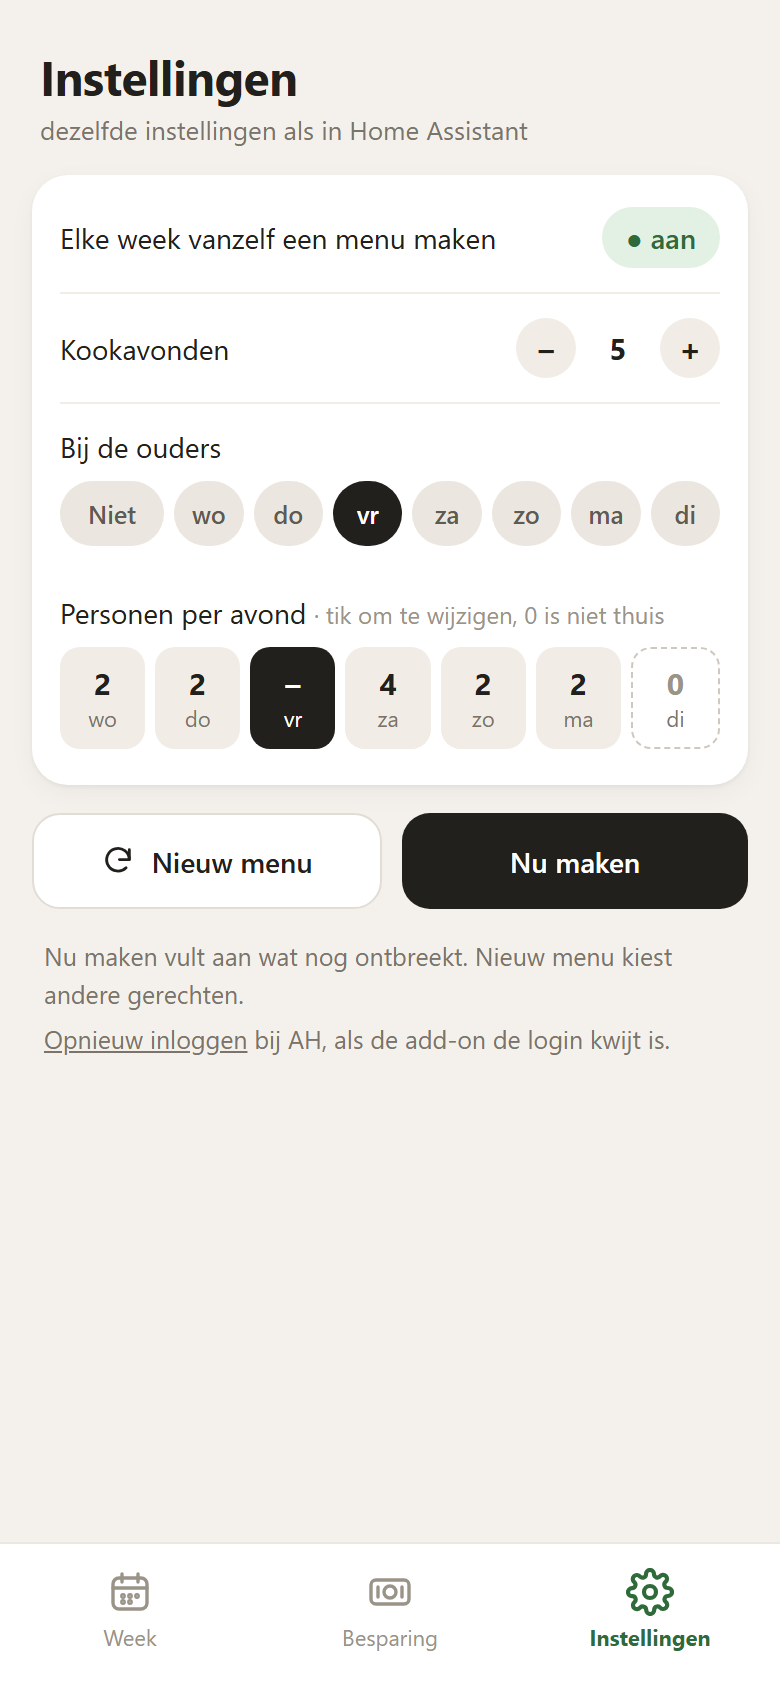
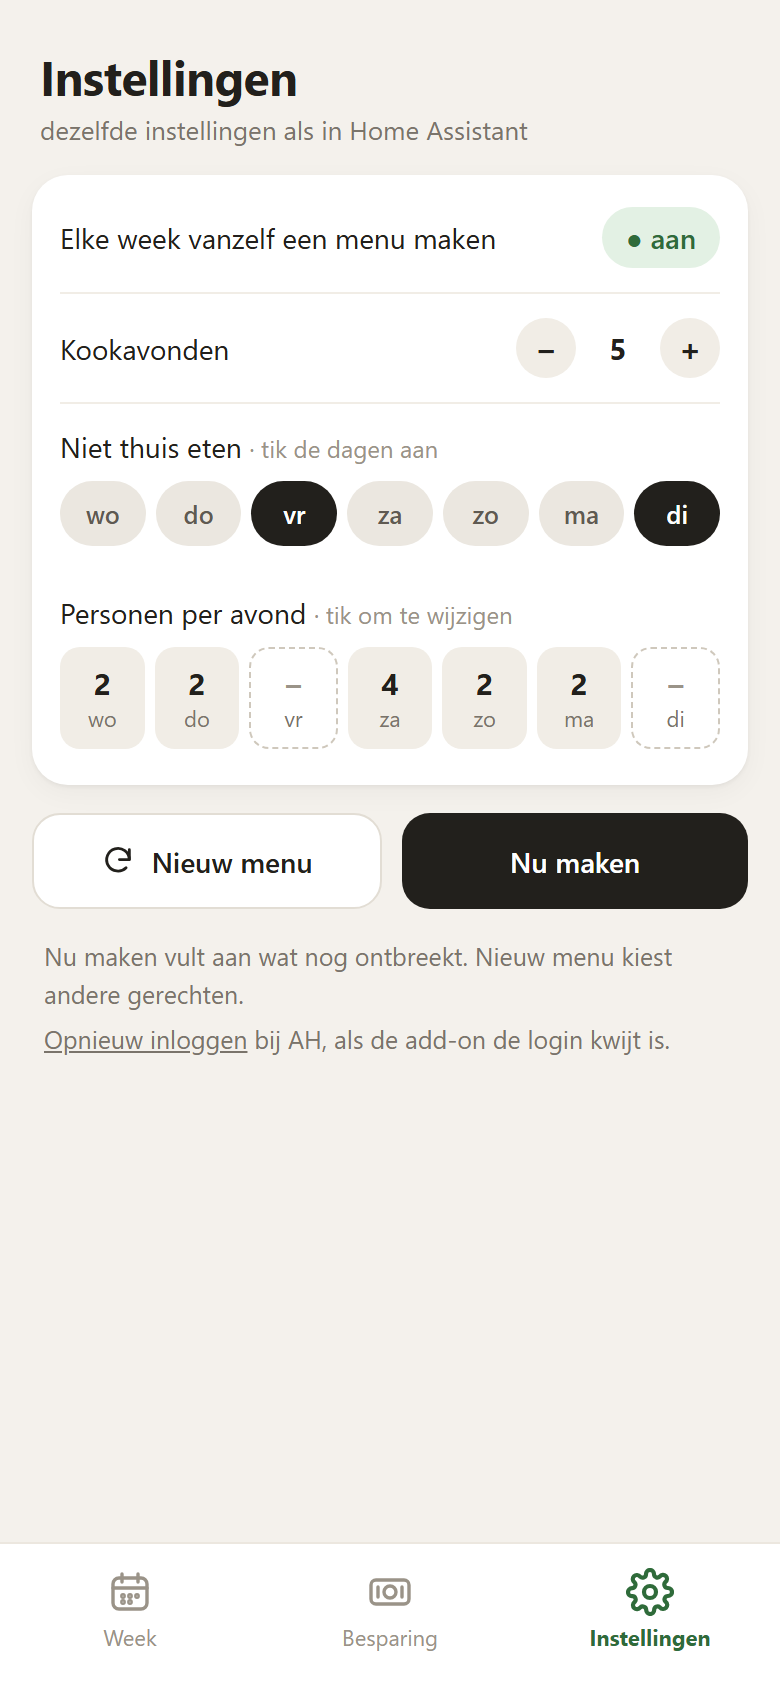
feat: Niet thuis eten als chips in Instellingen, versie 0.3.0, README en screenshots

diff --git a/weekmenu/app/static/app.js b/weekmenu/app/static/app.js
@@ -14,7 +14,6 @@ const DAGEN_KORT = { maandag: "ma", dinsdag: "di", woensdag: "wo", donderdag: "d
 const WEEK_ORDER = ["woensdag", "donderdag", "vrijdag", "zaterdag", "zondag", "maandag", "dinsdag"];
 const MAANDEN = ["januari", "februari", "maart", "april", "mei", "juni", "juli", "augustus",
   "september", "oktober", "november", "december"];
-const GEEN_OUDERAVOND = "Niet deze week";
 const BUSY_TEXT = "Er loopt al een ronde";
 
 const state = { status: null, week: null, weekParam: null, savings: null, settings: null,
@@ -106,7 +105,6 @@ function plural(n, one, many) { return `${n} ${n === 1 ? one : many}`; }
 
 const ICON = {
   plate: '<svg class="fallback" viewBox="0 0 24 24" aria-hidden="true"><circle cx="12" cy="12" r="6.5"/><path d="M3 3.5v5a2 2 0 0 0 2 2v10M5 3.5v4M7 3.5v5a2 2 0 0 1-2 2M21 3.5c-1.7.6-2.5 2.6-2.5 5.5v3.5H21v8"/></svg>',
-  home: '<svg viewBox="0 0 24 24" aria-hidden="true"><path d="M3.5 11 12 4l8.5 7"/><path d="M5.5 9.5V20h13V9.5"/><path d="M10 20v-5h4v5"/></svg>',
   moon: '<svg viewBox="0 0 24 24" aria-hidden="true"><path d="M20 14.5A8 8 0 0 1 9.5 4 8 8 0 1 0 20 14.5z"/></svg>',
   back: '<svg viewBox="0 0 24 24" aria-hidden="true"><path d="M19 12H5M11 6l-6 6 6 6"/></svg>',
   people: '<svg viewBox="0 0 24 24" aria-hidden="true"><circle cx="9" cy="8" r="3.2"/><path d="M3 19.5c.6-3.3 3-5 6-5s5.4 1.7 6 5"/><circle cx="17" cy="9" r="2.5"/><path d="M16 14.6c2.6-.2 4.5 1.4 5 4.4"/></svg>',
@@ -292,10 +290,6 @@ function dayCard(d) {
   const dt = parseDate(d.date);
   const weekend = dt.getDay() === 6 || dt.getDay() === 0;
   const tonight = d.date === todayIso();
-  if (d.ouders) {
-    return `<div class="card skip"><div class="ic">${ICON.home}</div>
-      <div><b>${esc(cap(d.dag))}</b> · bij de ouders</div></div>`;
-  }
   if (d.niet_thuis) {
     return `<div class="card skip"><div class="ic">${ICON.moon}</div>
       <div><b>${esc(cap(d.dag))}</b> · niet thuis</div></div>`;
@@ -356,7 +350,7 @@ function weekScreen() {
   }
   if (!w.days.length && w.geen_avonden) {
     html += `<div class="card empty"><b>Alle avonden niet thuis</b>
-      Er wordt geen menu gemaakt. Zet bij Instellingen een avond weer op 1 of meer personen om een menu te krijgen.</div>`;
+      Er wordt geen menu gemaakt. Tik bij Instellingen een dag weer uit bij Niet thuis eten om een menu te krijgen.</div>`;
   } else if (!w.days.length && w.enabled === false) {
     html += `<div class="card empty"><b>Het weekmenu staat uit</b>
       Er wordt nu geen menu gemaakt. Zet het aan bij Instellingen, of tik op Nu maken.</div>
@@ -471,13 +465,11 @@ function savingsScreen() {
 
 function settingsScreen() {
   const s = state.settings;
-  const opts = s.ouders_options || [GEEN_OUDERAVOND].concat(WEEK_ORDER);
-  const chips = opts.map((o) => `<button class="chip${o === s.ouders ? " x" : ""}${o === GEEN_OUDERAVOND ? " wide" : ""}" data-ouders="${esc(o)}">${o === GEEN_OUDERAVOND ? "Niet" : esc(DAGEN_KORT[o] || o)}</button>`).join("");
+  const isAway = (dag) => Number(s.persons[dag]) === 0;  // also when set in Home Assistant
+  const chips = WEEK_ORDER.map((dag) => `<button class="chip${isAway(dag) ? " x" : ""}" data-away="${dag}" aria-pressed="${isAway(dag)}" aria-label="Niet thuis eten op ${dag}">${esc(DAGEN_KORT[dag])}</button>`).join("");
   const boxes = WEEK_ORDER.map((dag) => {
-    const ouders = dag === s.ouders;
-    const n = s.persons[dag];
-    const away = !ouders && Number(n) === 0;
-    return `<button class="box${ouders ? " x" : ""}${away ? " away" : ""}" data-pers="${dag}" ${ouders ? "disabled" : ""} aria-label="${away ? `Personen op ${dag}: niet thuis` : `Personen op ${dag}`}"><b>${ouders ? "–" : esc(n)}</b>${DAGEN_KORT[dag]}</button>`;
+    const away = isAway(dag);
+    return `<button class="box${away ? " away" : ""}" data-pers="${dag}" ${away ? "disabled" : ""} aria-label="${away ? `Personen op ${dag}: niet thuis` : `Personen op ${dag}`}"><b>${away ? "–" : esc(s.persons[dag])}</b>${DAGEN_KORT[dag]}</button>`;
   }).join("");
   const note = s.defaulted && s.defaulted.length
     ? `<div class="card note"><span class="dot"></span><div><b>Niet alle helpers gevonden in Home Assistant</b><span class="muted">Waar een helper ontbreekt, staat de standaardwaarde.</span></div></div>` : "";
@@ -491,9 +483,9 @@ function settingsScreen() {
         <button data-avonden="${s.avonden - 1}" aria-label="Minder kookavonden" ${s.avonden <= 1 ? "disabled" : ""}>−</button>
         <b>${esc(s.avonden)}</b>
         <button data-avonden="${s.avonden + 1}" aria-label="Meer kookavonden" ${s.avonden >= 7 ? "disabled" : ""}>+</button></div></div>
-      <div class="lbl2">Bij de ouders</div>
+      <div class="lbl2">Niet thuis eten <span class="hint">· tik de dagen aan</span></div>
       <div class="tw">${chips}</div>
-      <div class="lbl2">Personen per avond <span class="hint">· tik om te wijzigen, 0 is niet thuis</span></div>
+      <div class="lbl2">Personen per avond <span class="hint">· tik om te wijzigen</span></div>
       <div class="days">${boxes}</div>
     </div>
     <div class="btnrow"><button class="btn sec2" data-run="nieuw_menu">${ICON.refresh} Nieuw menu</button>
@@ -714,16 +706,20 @@ app.addEventListener("click", async (ev) => {
     render();
     return;
   }
-  if (t.dataset.ouders) {
-    const o = t.dataset.ouders;
-    if (o === s.ouders) return;
-    await busy(t, async () => { await setSetting(s.entities.ouders, o); s.ouders = o; });
+  if (t.dataset.away) {
+    const dag = t.dataset.away;
+    const away = Number(s.persons[dag]) !== 0;  // tapping flips it
+    await busy(t, async () => {
+      const r = await api("api/settings", { entity_id: s.entities.persons[dag], away });
+      s.persons[dag] = r && typeof r.value === "number" ? r.value : (away ? 0 : 2);
+    });
     render();
     return;
   }
   if (t.dataset.pers) {
     const dag = t.dataset.pers;
-    const n = (Number(s.persons[dag]) + 1) % 9;  // 0 (niet thuis) t/m 8
+    if (Number(s.persons[dag]) === 0) return;  // niet thuis: only the chip changes that
+    const n = Number(s.persons[dag]) % 8 + 1;  // 1 t/m 8
     await busy(t, async () => { await setSetting(s.entities.persons[dag], n); s.persons[dag] = n; });
     render();
   }

diff --git a/weekmenu/tests/test_frontend.py b/weekmenu/tests/test_frontend.py
@@ -17,7 +17,7 @@ from aiohttp import web
 
 from app.ahclient import Product, Recipe
 from app.main import PERIOD_WARNING, Waiting
-from app.hass import HELPER_OUDERS, _save_total, helper_persons
+from app.hass import _save_total, helper_persons
 from app.ledger import WeekLog
 from app.planner import Dish, Line, Plan
 from app.staples import Staple
@@ -146,7 +146,7 @@ def fake_staples() -> list[Staple]:
 def build_ctx(tmp_path):
     ctx = make_ctx(tmp_path, now=NOW)
     ctx.store.save(Tokens("test-access", "test-refresh", 9e9))
-    ctx.hass.states[HELPER_OUDERS] = "vrijdag"
+    ctx.hass.states[helper_persons()["vrijdag"]] = "0"  # niet thuis
     ctx.hass.states[helper_persons()["zaterdag"]] = "4"
     ctx.hass.states[helper_persons()["dinsdag"]] = "0"  # niet thuis
     plan = fake_plan()
@@ -241,7 +241,7 @@ def test_app_screens_in_chrome(tmp_path):
         assert dom.index("in bestelling") < dom.index(order)
         for title in TITLES:
             assert title.replace("'", "&#39;") in dom or title in dom, title
-        assert "bij de ouders" in dom
+        assert "Vrijdag</b> · niet thuis" in dom and "ouders" not in dom
         assert "Dinsdag</b> · niet thuis" in dom
         assert "€ 14,85" in dom
         assert "geschat" in dom
@@ -271,9 +271,14 @@ def test_app_screens_in_chrome(tmp_path):
         assert "€ 57,15" in dom and "€ 14,85" in dom and "wk 45" in dom
 
         dom = render(base, "#instellingen", tmp_path, "instellingen")
-        assert "Kookavonden" in dom and "Bij de ouders" in dom and "Nieuw menu" in dom
+        assert "Kookavonden" in dom and "Niet thuis eten" in dom and "ouders" not in dom and "Nieuw menu" in dom
         assert "Nu maken" in dom
         assert 'class="box away"' in dom and "Personen op dinsdag: niet thuis" in dom
+        # chips wo..di: vr and di are pressed (di and vr are at 0 in Home Assistant)
+        assert dom.count('class="chip x"') == 2
+        assert 'class="chip x" data-away="vrijdag"' in dom and 'class="chip x" data-away="dinsdag"' in dom
+        assert 'class="chip" data-away="woensdag"' in dom
+        assert dom.count("disabled") >= 2 and "<b>–</b>" in dom
         assert 'href="#inloggen"' in dom and "Opnieuw inloggen" in dom
 
         dom = render(base, "#inloggen", tmp_path, "opnieuw-inloggen")

diff --git a/docs/screenshots/README.md b/docs/screenshots/README.md
@@ -22,8 +22,8 @@ Screenshots of the built Weekmenu app, made by `weekmenu/tests/test_frontend.py`
 | ![Savings](app-besparing.png) | ![Settings](app-instellingen.png) |
 | ![Login](app-login.png) | |
 
-1. Week: under the title the order it is for ("Voor de bestelling van woensdag 4 november"), then the savings of the week, then one card per evening, the parents' evening as a quiet card, and under the dishes "Ook in de bonus": staples bought often that are on offer, each with a plus button
+1. Week: under the title the order it is for ("Voor de bestelling van woensdag 4 november"), then the savings of the week, then one card per evening, an evening not at home as a quiet card, and under the dishes "Ook in de bonus": staples bought often that are on offer, each with a plus button
 2. One dish: persons, ingredients with the AH product and the bonus offer, preparation and swap
 3. Savings: this month, since the start, and per week
-4. Settings: the same helpers as in Home Assistant, plus Nieuw menu and Nu maken
+4. Settings: the same helpers as in Home Assistant, with "Niet thuis eten" chips per day, plus Nieuw menu and Nu maken
 5. Login: paste the `appie://login-exit?code=…` line from the browser console

diff --git a/README.md b/README.md
@@ -15,3 +15,7 @@ Then install "Weekmenu AH" from the store.
 ## When it runs
 
 The menu is made as soon as the AH bonus folder of the delivery week is out, usually on the Friday before. From `schedule_time` (default 08:00) until 18:00 the add-on checks once an hour, as long as there is no menu for that week yet. If the folder is still not out on Sunday at 18:00, it uses the current folder and says so in the message. You get one push message, when the menu is made.
+
+## Not eating at home
+
+In the app, under Settings, tap the days (Wednesday to Tuesday) you do not eat at home. A tapped day sets the persons of that weekday to 0: no dish, nothing bought, and the next day moves up (never past Tuesday). Tap the day again and the earlier number of persons comes back (2 if there was none); the add-on keeps that number in `/data/niet_thuis.json`, also after a restart. If you set a persons helper to 0 in Home Assistant yourself, the app shows that day as tapped. The week tab, the push message and `sensor.weekmenu` call such an evening "niet thuis".
